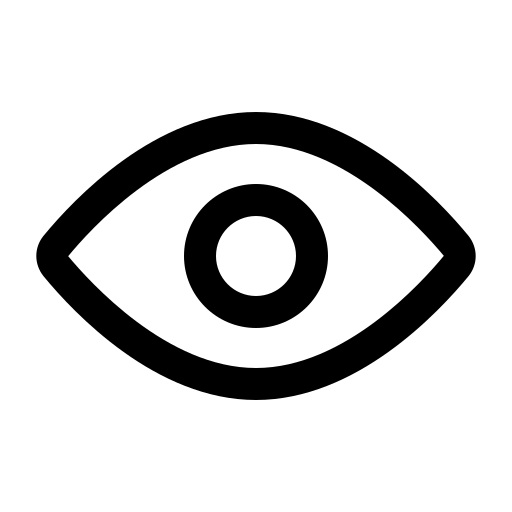
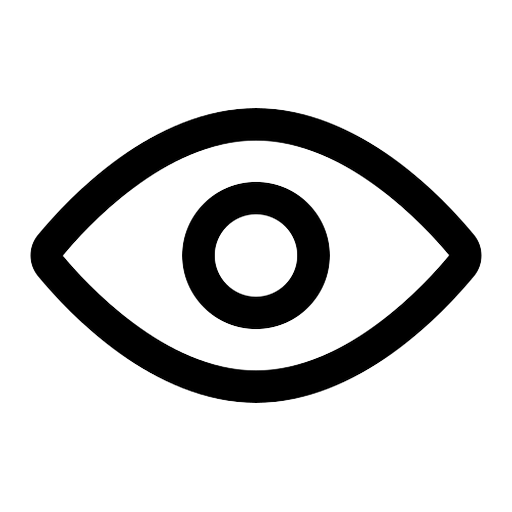
US-15335[IMP]: Make the password visibility toggle on click instead of on hold.

diff --git a/Web/addons/openerp/static/javascript/password_eye.js b/Web/addons/openerp/static/javascript/password_eye.js
@@ -34,24 +34,20 @@ function initPasswordEyeToggles(root) {
             wrapper.appendChild(nextEl);
         }
 
-        var icon = document.createElement('img');
+        let icon = document.createElement('img');
         icon.src = '/openerp/static/images/eye.png';
         icon.alt = '';
-        icon.title = _('Hold to show password');
+        icon.title = _('Show password');
         icon.style.cssText =
-            'width:12px;height:12px;position:absolute;right:8px;top:50%;transform:translateY(-50%);cursor:pointer;';
+            'width:12px !important;height:12px !important;min-width:12px;min-height:12px;max-width:12px;max-height:12px;' +
+            'object-fit:contain;display:block;position:absolute;right:8px;top:50%;transform:translateY(-50%);cursor:pointer;';
         wrapper.appendChild(icon);
 
-        icon.addEventListener('mousedown', function () {
-            input.type = 'text';
-        });
-
-        icon.addEventListener('mouseup', function () {
-            input.type = 'password';
-        });
-
-        icon.addEventListener('mouseleave', function () {
-            input.type = 'password';
+        icon.addEventListener('click', function () {
+            var revealed = input.type === 'text';
+            input.type = revealed ? 'password' : 'text';
+            icon.title = revealed ? _('Show password') : _('Hide password');
+            icon.src = revealed ? '/openerp/static/images/eye.png' : '/openerp/static/images/eye_hide.png';
         });
     }
 }
